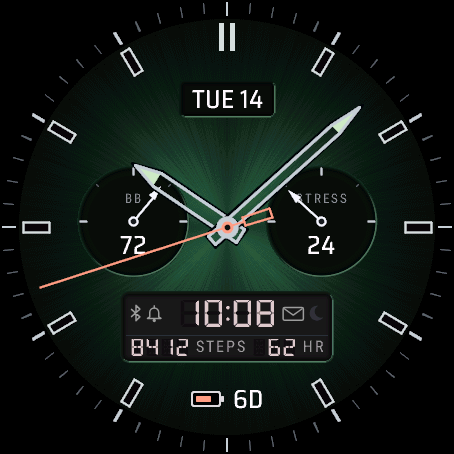
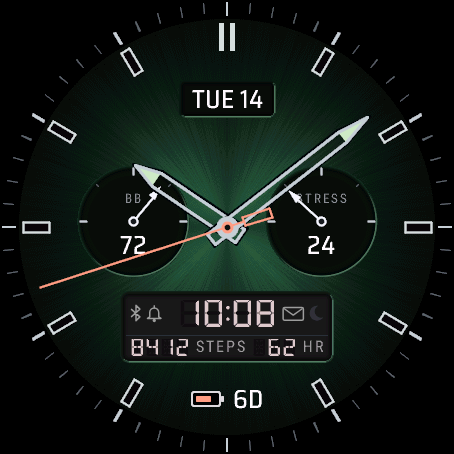
Duo Dial 1.2.0: new hands and shots, Approach S70 and S72, Hand style; second time zone by city; store permission explained

diff --git a/duo-dial/index.html b/duo-dial/index.html
@@ -3,10 +3,10 @@
 <head>
 <meta charset="utf-8">
 <meta name="viewport" content="width=device-width, initial-scale=1">
-<title>Duo Dial, a watch face for Venu 4 and Instinct 3 AMOLED</title>
+<title>Duo Dial, a watch face for Venu 4, Instinct 3 AMOLED and Approach S70 and S72</title>
 <meta name="description" content="Analog hands and an LCD window on one dial, like the analog-digital sports watches of the 80s and 90s.">
 <link rel="canonical" href="https://watchfaces.thesako.com/duo-dial/">
-<meta property="og:title" content="Duo Dial, a watch face for Venu 4 and Instinct 3 AMOLED">
+<meta property="og:title" content="Duo Dial, a watch face for Venu 4, Instinct 3 AMOLED and Approach S70 and S72">
 <meta property="og:description" content="Analog hands and an LCD window on one dial, like the analog-digital sports watches of the 80s and 90s.">
 <meta property="og:image" content="https://watchfaces.thesako.com/assets/faces/duodial/hero-1440x720.jpg">
 <meta property="og:url" content="https://watchfaces.thesako.com/duo-dial/">
@@ -47,13 +47,13 @@
     </div>
   <section class="detail">
     <h2>On the face</h2>
-    <ul><li>Hour, minute and seconds hands over a textured dial</li><li>Date window: the date, the ISO week or a second time zone</li><li>Two sub-dials with a needle and value: Body Battery™ and stress to start with</li><li>LCD window with the digital time, two values and status icons for Bluetooth, alarms, notifications and do not disturb</li><li>Battery with days left or percent</li></ul>
+    <ul><li>Hour, minute and seconds hands over a textured dial, open or filled. The minute hand moves every second, as on a real watch</li><li>Date window: the date, the ISO week or a second time zone</li><li>Two sub-dials with a needle and value: Body Battery™ and stress to start with</li><li>LCD window with the digital time, two values and status icons for Bluetooth, alarms, notifications and do not disturb</li><li>Battery with days left or percent</li></ul>
     <h2>What you can change</h2>
-    <p>The sub-dials take readings that fill a scale: steps, floors, intensity minutes, Body Battery™, stress, Pulse Ox, sleep score, battery, battery days, rain chance or solar intensity. The LCD window&#x27;s two values, the date window and the battery display are set from your phone too.</p>
-    <p>Also in the phone settings: 12 or 24 hour time or the watch&#x27;s setting, a leading zero for 12 h, seconds on or off, the date style (TUE 14 OCT, 14 OCT TUE, TUE 10/14 or 2026-10-14), the always-on style (Rich, Minimal or Time only), units, the first day of the week and a second time zone. On a Venu 4, touch and hold a field to open the matching screen on the watch.</p>
+    <p>The sub-dials take readings that fill a scale: steps, floors, intensity minutes, Body Battery™, stress, Pulse Ox, sleep score, battery, battery days, rain chance or solar intensity. The LCD window&#x27;s two values, the date window and the battery display are set from your phone too, and so is the hand style, open or filled.</p>
+    <p>Also in the phone settings: 12 or 24 hour time or the watch&#x27;s setting, a leading zero for 12 h, seconds on or off, the date style (TUE 14 OCT, 14 OCT TUE, TUE 10/14 or 2026-10-14), the always-on style (Rich, Minimal or Time only), units, the first day of the week and a second time zone: pick a city and it follows daylight saving, or set your own offset. On a touch watch, touch and hold a field to open the matching screen on the watch.</p>
     <p>Settings are changed in the Connect IQ Store app or the Garmin Connect app on your phone. <a href="/help/">How settings, always-on mode and missing values work</a>.</p>
     <h2>Watches</h2>
-    <p>Venu® 4 45 mm, Venu® 4 41 mm, Instinct® 3 AMOLED 50 mm, Instinct® 3 AMOLED 45 mm. The D2™ Air X15 runs it too.</p>
+    <p>Venu® 4 45 mm, Venu® 4 41 mm, Instinct® 3 AMOLED 50 mm, Instinct® 3 AMOLED 45 mm, Approach® S70 47 mm, Approach® S70 42 mm, Approach® S72 47 mm, Approach® S72 43 mm. The D2™ Air X15 runs it too.</p>
   </section>
   </div>
  </div>
@@ -64,6 +64,10 @@
     <figure><img class="dial" src="/assets/faces/duodial/venu441mm.png" width="390" height="390" style="width:85.9%" alt="Duo Dial on the Venu 4 41 mm"><figcaption>Venu 4 41 mm</figcaption></figure>
     <figure><img class="dial" src="/assets/faces/duodial/instinct3amoled50mm.png" width="416" height="416" style="width:91.6%" alt="Duo Dial on the Instinct 3 AMOLED 50 mm"><figcaption>Instinct 3 AMOLED 50 mm</figcaption></figure>
     <figure><img class="dial" src="/assets/faces/duodial/instinct3amoled45mm.png" width="390" height="390" style="width:85.9%" alt="Duo Dial on the Instinct 3 AMOLED 45 mm"><figcaption>Instinct 3 AMOLED 45 mm</figcaption></figure>
+    <figure><img class="dial" src="/assets/faces/duodial/approachs7047mm.png" width="454" height="454" style="width:100.0%" alt="Duo Dial on the Approach S70 47 mm"><figcaption>Approach S70 47 mm</figcaption></figure>
+    <figure><img class="dial" src="/assets/faces/duodial/approachs7042mm.png" width="390" height="390" style="width:85.9%" alt="Duo Dial on the Approach S70 42 mm"><figcaption>Approach S70 42 mm</figcaption></figure>
+    <figure><img class="dial" src="/assets/faces/duodial/approachs7247mm.png" width="454" height="454" style="width:100.0%" alt="Duo Dial on the Approach S72 47 mm"><figcaption>Approach S72 47 mm</figcaption></figure>
+    <figure><img class="dial" src="/assets/faces/duodial/approachs7243mm.png" width="416" height="416" style="width:91.6%" alt="Duo Dial on the Approach S72 43 mm"><figcaption>Approach S72 43 mm</figcaption></figure>
     </div>
   </section>
   <nav class="pager" aria-label="Other faces">
@@ -76,7 +80,7 @@
 </main>
 <footer class="foot">
   <p>Made by thesako. Questions: <a href="mailto:watchfaces@thesako.com">watchfaces@thesako.com</a></p>
-  <p>Not affiliated with or endorsed by Garmin. Garmin, Connect IQ, Venu, Instinct, Body Battery and D2 are trademarks of Garmin Ltd. or its subsidiaries. Set in Saira, under the <a href="/assets/fonts/OFL.txt">SIL Open Font License</a>.</p>
+  <p>Not affiliated with or endorsed by Garmin. Garmin, Connect IQ, Venu, Instinct, Approach, Body Battery and D2 are trademarks of Garmin Ltd. or its subsidiaries. Set in Saira, under the <a href="/assets/fonts/OFL.txt">SIL Open Font License</a>.</p>
 </footer>
 </body>
 </html>

diff --git a/help/index.html b/help/index.html
@@ -48,13 +48,18 @@
   <p>When the watch is set to keep the screen on, each face switches to a dimmed, simpler view when you lower your wrist. It updates once a minute and moves a few pixels now and then to protect the AMOLED screen. Seconds only show while the watch is active. Each face has three always-on styles: Rich, Minimal and Time only.</p>
 
   <h2 id="touch">Touch and hold</h2>
-  <p>On a Venu 4, touch and hold a field to open the matching screen on the watch, such as heart rate or Body Battery. The Instinct 3 AMOLED has no touch screen, so this doesn't apply there.</p>
+  <p>On a Venu 4, or an Approach S70 or S72 with Duo Dial, touch and hold a field to open the matching screen on the watch, such as heart rate or Body Battery. The Instinct 3 AMOLED has no touch screen, so this doesn't apply there.</p>
+
+  <h2 id="time-zone">Second time zone</h2>
+  <p>In a face's settings, pick a city and the second time zone follows that city's daylight saving by itself. For anywhere else, choose a custom offset and a label of up to four letters. A custom offset doesn't change with daylight saving.</p>
 
   <h2 id="watches">Supported watches</h2>
   <ul><li>Venu® 4 45 mm</li><li>Venu® 4 41 mm</li><li>Instinct® 3 AMOLED 50 mm</li><li>Instinct® 3 AMOLED 45 mm</li><li>D2™ Air X15, which shares the Venu 4 45 mm profile</li></ul>
+  <p>Duo Dial also runs on the Approach S70 42 mm and 47 mm and the Approach S72 43 mm and 47 mm.</p>
 
   <h2 id="privacy">Privacy</h2>
   <p>The faces collect nothing and send nothing; they only show data the watch already has. This site sets no cookies and runs no analytics.</p>
+  <p>The store lists a "Communication &amp; Data Transmission" permission for the faces. That is the store's name for reading data other apps provide on the watch, such as the values in a field. The faces use no internet connection.</p>
   <p>Health readings on the faces are for general information and not for medical use.</p>
 
   <h2 id="contact">Contact</h2>
@@ -64,7 +69,7 @@
 </main>
 <footer class="foot">
   <p>Made by thesako. Questions: <a href="mailto:watchfaces@thesako.com">watchfaces@thesako.com</a></p>
-  <p>Not affiliated with or endorsed by Garmin. Garmin, Connect IQ, Venu, Instinct, Body Battery and D2 are trademarks of Garmin Ltd. or its subsidiaries. Set in Saira, under the <a href="/assets/fonts/OFL.txt">SIL Open Font License</a>.</p>
+  <p>Not affiliated with or endorsed by Garmin. Garmin, Connect IQ, Venu, Instinct, Approach, Body Battery and D2 are trademarks of Garmin Ltd. or its subsidiaries. Set in Saira, under the <a href="/assets/fonts/OFL.txt">SIL Open Font License</a>.</p>
 </footer>
 </body>
 </html>

diff --git a/range-card/index.html b/range-card/index.html
@@ -46,7 +46,7 @@
     <ul><li>Time with solid hours, outlined minutes and seconds in active mode</li><li>Top band: the date, or military date-time, your next calendar event, weather, training status or ISO week</li><li>Status line (notifications to start with) and a weather line with the high and low</li><li>Step-goal dial with a progress ring</li><li>A 3 + 3 grid: heart rate, battery days, calories, floors, altitude and intensity minutes to start with</li><li>Footer, sunset to start with</li><li>Edge gauges with their names printed along them: Body Battery™ on the left, stress on the right</li></ul>
     <h2>What you can change</h2>
     <p>All 13 slots can be set from your phone, and most can be left empty: activity, health, battery, weather and time data, depending on the slot and your watch.</p>
-    <p>Also in the phone settings: 12 or 24 hour time or the watch&#x27;s setting, a leading zero for 12 h, seconds on or off, the date style (TUE 14 OCT, 14 OCT TUE, TUE 10/14 or 2026-10-14), the always-on style (Rich, Minimal or Time only), units, the first day of the week and a second time zone. On a Venu 4, touch and hold a field to open the matching screen on the watch.</p>
+    <p>Also in the phone settings: 12 or 24 hour time or the watch&#x27;s setting, a leading zero for 12 h, seconds on or off, the date style (TUE 14 OCT, 14 OCT TUE, TUE 10/14 or 2026-10-14), the always-on style (Rich, Minimal or Time only), units, the first day of the week and a second time zone: pick a city and it follows daylight saving, or set your own offset. On a touch watch, touch and hold a field to open the matching screen on the watch.</p>
     <p>Settings are changed in the Connect IQ Store app or the Garmin Connect app on your phone. <a href="/help/">How settings, always-on mode and missing values work</a>.</p>
     <h2>Watches</h2>
     <p>Venu® 4 45 mm, Venu® 4 41 mm, Instinct® 3 AMOLED 50 mm, Instinct® 3 AMOLED 45 mm. The D2™ Air X15 runs it too.</p>
@@ -72,7 +72,7 @@
 </main>
 <footer class="foot">
   <p>Made by thesako. Questions: <a href="mailto:watchfaces@thesako.com">watchfaces@thesako.com</a></p>
-  <p>Not affiliated with or endorsed by Garmin. Garmin, Connect IQ, Venu, Instinct, Body Battery and D2 are trademarks of Garmin Ltd. or its subsidiaries. Set in Saira, under the <a href="/assets/fonts/OFL.txt">SIL Open Font License</a>.</p>
+  <p>Not affiliated with or endorsed by Garmin. Garmin, Connect IQ, Venu, Instinct, Approach, Body Battery and D2 are trademarks of Garmin Ltd. or its subsidiaries. Set in Saira, under the <a href="/assets/fonts/OFL.txt">SIL Open Font License</a>.</p>
 </footer>
 </body>
 </html>

diff --git a/conduit/index.html b/conduit/index.html
@@ -46,7 +46,7 @@
     <ul><li>Heart rate and a 12-bar chart of the last four hours</li><li>Time with outlined hours, solid accent minutes and seconds in active mode</li><li>Date with the temperature or feels-like</li><li>Small ringed dial, battery days left to start with</li><li>Sun line with sunrise and sunset</li><li>Two arc gauges rising from 6 o&#x27;clock: Body Battery™ and steps to start with</li></ul>
     <h2>What you can change</h2>
     <p>The heart-rate chart stays put. The dial, the date line, both sides of the sun line and both arcs can be changed from your phone, and the heart-rate value, date-line value and sun line can be hidden.</p>
-    <p>Also in the phone settings: 12 or 24 hour time or the watch&#x27;s setting, a leading zero for 12 h, seconds on or off, the date style (TUE 14 OCT, 14 OCT TUE, TUE 10/14 or 2026-10-14), the always-on style (Rich, Minimal or Time only), units, the first day of the week and a second time zone. On a Venu 4, touch and hold a field to open the matching screen on the watch.</p>
+    <p>Also in the phone settings: 12 or 24 hour time or the watch&#x27;s setting, a leading zero for 12 h, seconds on or off, the date style (TUE 14 OCT, 14 OCT TUE, TUE 10/14 or 2026-10-14), the always-on style (Rich, Minimal or Time only), units, the first day of the week and a second time zone: pick a city and it follows daylight saving, or set your own offset. On a touch watch, touch and hold a field to open the matching screen on the watch.</p>
     <p>Settings are changed in the Connect IQ Store app or the Garmin Connect app on your phone. <a href="/help/">How settings, always-on mode and missing values work</a>.</p>
     <h2>Watches</h2>
     <p>Venu® 4 45 mm, Venu® 4 41 mm, Instinct® 3 AMOLED 50 mm, Instinct® 3 AMOLED 45 mm. The D2™ Air X15 runs it too.</p>
@@ -72,7 +72,7 @@
 </main>
 <footer class="foot">
   <p>Made by thesako. Questions: <a href="mailto:watchfaces@thesako.com">watchfaces@thesako.com</a></p>
-  <p>Not affiliated with or endorsed by Garmin. Garmin, Connect IQ, Venu, Instinct, Body Battery and D2 are trademarks of Garmin Ltd. or its subsidiaries. Set in Saira, under the <a href="/assets/fonts/OFL.txt">SIL Open Font License</a>.</p>
+  <p>Not affiliated with or endorsed by Garmin. Garmin, Connect IQ, Venu, Instinct, Approach, Body Battery and D2 are trademarks of Garmin Ltd. or its subsidiaries. Set in Saira, under the <a href="/assets/fonts/OFL.txt">SIL Open Font License</a>.</p>
 </footer>
 </body>
 </html>

diff --git a/gauge-glass/index.html b/gauge-glass/index.html
@@ -46,7 +46,7 @@
     <ul><li>Skeleton hands and a seconds hand over a tick ring</li><li>Seven-segment time with seconds and a 14-segment date line</li><li>Four level gauges: steps (% of goal), battery days left, Body Battery™ and stress to start with</li></ul>
     <h2>What you can change</h2>
     <p>Each gauge and the date line can show a different reading, or nothing. The gauges take readings that fill a level: steps, floors, intensity minutes, Body Battery™, stress, Pulse Ox, sleep score, battery, battery days, rain chance or solar intensity. The date line shows the date, ISO week, a second time zone or your next calendar event.</p>
-    <p>Also in the phone settings: 12 or 24 hour time or the watch&#x27;s setting, a leading zero for 12 h, seconds on or off, the date style (TUE 14 OCT, 14 OCT TUE, TUE 10/14 or 2026-10-14), the always-on style (Rich, Minimal or Time only), units, the first day of the week and a second time zone. On a Venu 4, touch and hold a field to open the matching screen on the watch.</p>
+    <p>Also in the phone settings: 12 or 24 hour time or the watch&#x27;s setting, a leading zero for 12 h, seconds on or off, the date style (TUE 14 OCT, 14 OCT TUE, TUE 10/14 or 2026-10-14), the always-on style (Rich, Minimal or Time only), units, the first day of the week and a second time zone: pick a city and it follows daylight saving, or set your own offset. On a touch watch, touch and hold a field to open the matching screen on the watch.</p>
     <p>Settings are changed in the Connect IQ Store app or the Garmin Connect app on your phone. <a href="/help/">How settings, always-on mode and missing values work</a>.</p>
     <h2>Watches</h2>
     <p>Venu® 4 45 mm, Venu® 4 41 mm, Instinct® 3 AMOLED 50 mm, Instinct® 3 AMOLED 45 mm. The D2™ Air X15 runs it too.</p>
@@ -72,7 +72,7 @@
 </main>
 <footer class="foot">
   <p>Made by thesako. Questions: <a href="mailto:watchfaces@thesako.com">watchfaces@thesako.com</a></p>
-  <p>Not affiliated with or endorsed by Garmin. Garmin, Connect IQ, Venu, Instinct, Body Battery and D2 are trademarks of Garmin Ltd. or its subsidiaries. Set in Saira, under the <a href="/assets/fonts/OFL.txt">SIL Open Font License</a>.</p>
+  <p>Not affiliated with or endorsed by Garmin. Garmin, Connect IQ, Venu, Instinct, Approach, Body Battery and D2 are trademarks of Garmin Ltd. or its subsidiaries. Set in Saira, under the <a href="/assets/fonts/OFL.txt">SIL Open Font License</a>.</p>
 </footer>
 </body>
 </html>

diff --git a/signal-box/index.html b/signal-box/index.html
@@ -46,7 +46,7 @@
     <ul><li>Heart-rate dial, its ring showing how close you are to your maximum heart rate</li><li>Date block with the current temperature and conditions</li><li>Large time with outlined minutes and seconds in active mode</li><li>Two segment bars: steps and battery days left to start with</li><li>Two block gauges on the rim: Body Battery™ and stress to start with</li><li>Footer line, sunset to start with</li></ul>
     <h2>What you can change</h2>
     <p>Seven slots can be changed from your phone: the dial, the weather line, both bars, both rim gauges and the footer. Most can also be switched off.</p>
-    <p>Also in the phone settings: 12 or 24 hour time or the watch&#x27;s setting, a leading zero for 12 h, seconds on or off, the date style (TUE 14 OCT, 14 OCT TUE, TUE 10/14 or 2026-10-14), the always-on style (Rich, Minimal or Time only), units, the first day of the week and a second time zone. On a Venu 4, touch and hold a field to open the matching screen on the watch.</p>
+    <p>Also in the phone settings: 12 or 24 hour time or the watch&#x27;s setting, a leading zero for 12 h, seconds on or off, the date style (TUE 14 OCT, 14 OCT TUE, TUE 10/14 or 2026-10-14), the always-on style (Rich, Minimal or Time only), units, the first day of the week and a second time zone: pick a city and it follows daylight saving, or set your own offset. On a touch watch, touch and hold a field to open the matching screen on the watch.</p>
     <p>Settings are changed in the Connect IQ Store app or the Garmin Connect app on your phone. <a href="/help/">How settings, always-on mode and missing values work</a>.</p>
     <h2>Watches</h2>
     <p>Venu® 4 45 mm, Venu® 4 41 mm, Instinct® 3 AMOLED 50 mm, Instinct® 3 AMOLED 45 mm. The D2™ Air X15 runs it too.</p>
@@ -72,7 +72,7 @@
 </main>
 <footer class="foot">
   <p>Made by thesako. Questions: <a href="mailto:watchfaces@thesako.com">watchfaces@thesako.com</a></p>
-  <p>Not affiliated with or endorsed by Garmin. Garmin, Connect IQ, Venu, Instinct, Body Battery and D2 are trademarks of Garmin Ltd. or its subsidiaries. Set in Saira, under the <a href="/assets/fonts/OFL.txt">SIL Open Font License</a>.</p>
+  <p>Not affiliated with or endorsed by Garmin. Garmin, Connect IQ, Venu, Instinct, Approach, Body Battery and D2 are trademarks of Garmin Ltd. or its subsidiaries. Set in Saira, under the <a href="/assets/fonts/OFL.txt">SIL Open Font License</a>.</p>
 </footer>
 </body>
 </html>

diff --git a/track-hybrid/index.html b/track-hybrid/index.html
@@ -49,7 +49,7 @@
     <ul><li>Analog hands over a seven-segment time, with seconds in active mode</li><li>Top field: the date, or ISO week, a second time zone, your next event, sunrise, sunset, temperature or weather</li><li>Two band gauges inside the minute track, names curved along them: Body Battery™ and stress to start with</li><li>Four data fields: heart rate, battery days, temperature and notifications to start with</li><li>Footer, calories to start with</li></ul>
     <h2>What you can change</h2>
     <p>Every field and gauge can be changed from your phone, and most can be switched off for a cleaner dial.</p>
-    <p>Also in the phone settings: 12 or 24 hour time or the watch&#x27;s setting, a leading zero for 12 h, seconds on or off, the date style (TUE 14 OCT, 14 OCT TUE, TUE 10/14 or 2026-10-14), the always-on style (Rich, Minimal or Time only), units, the first day of the week and a second time zone. On a Venu 4, touch and hold a field to open the matching screen on the watch.</p>
+    <p>Also in the phone settings: 12 or 24 hour time or the watch&#x27;s setting, a leading zero for 12 h, seconds on or off, the date style (TUE 14 OCT, 14 OCT TUE, TUE 10/14 or 2026-10-14), the always-on style (Rich, Minimal or Time only), units, the first day of the week and a second time zone: pick a city and it follows daylight saving, or set your own offset. On a touch watch, touch and hold a field to open the matching screen on the watch.</p>
     <p>Settings are changed in the Connect IQ Store app or the Garmin Connect app on your phone. <a href="/help/">How settings, always-on mode and missing values work</a>.</p>
     <h2>Watches</h2>
     <p>Venu® 4 45 mm, Venu® 4 41 mm, Instinct® 3 AMOLED 50 mm, Instinct® 3 AMOLED 45 mm. The D2™ Air X15 runs it too.</p>
@@ -75,7 +75,7 @@
 </main>
 <footer class="foot">
   <p>Made by thesako. Questions: <a href="mailto:watchfaces@thesako.com">watchfaces@thesako.com</a></p>
-  <p>Not affiliated with or endorsed by Garmin. Garmin, Connect IQ, Venu, Instinct, Body Battery and D2 are trademarks of Garmin Ltd. or its subsidiaries. Set in Saira, under the <a href="/assets/fonts/OFL.txt">SIL Open Font License</a>.</p>
+  <p>Not affiliated with or endorsed by Garmin. Garmin, Connect IQ, Venu, Instinct, Approach, Body Battery and D2 are trademarks of Garmin Ltd. or its subsidiaries. Set in Saira, under the <a href="/assets/fonts/OFL.txt">SIL Open Font License</a>.</p>
 </footer>
 </body>
 </html>

diff --git a/week-grid/index.html b/week-grid/index.html
@@ -46,7 +46,7 @@
     <ul><li>Week strip of the last seven days</li><li>Date with the current temperature and conditions</li><li>Large time with outlined minutes and seconds in active mode</li><li>A ruled 3 + 3 grid: heart rate, steps, notifications, calories, distance and floors to start with</li><li>Battery with days left, percent or the icon only</li><li>Two curved side gauges: Body Battery™ and stress to start with</li></ul>
     <h2>What you can change</h2>
     <p>Both gauges, the week strip, the weather line, all six cells and the battery display can be changed from your phone. Most can be switched off.</p>
-    <p>Also in the phone settings: 12 or 24 hour time or the watch&#x27;s setting, a leading zero for 12 h, seconds on or off, the date style (TUE 14 OCT, 14 OCT TUE, TUE 10/14 or 2026-10-14), the always-on style (Rich, Minimal or Time only), units, the first day of the week and a second time zone. On a Venu 4, touch and hold a field to open the matching screen on the watch.</p>
+    <p>Also in the phone settings: 12 or 24 hour time or the watch&#x27;s setting, a leading zero for 12 h, seconds on or off, the date style (TUE 14 OCT, 14 OCT TUE, TUE 10/14 or 2026-10-14), the always-on style (Rich, Minimal or Time only), units, the first day of the week and a second time zone: pick a city and it follows daylight saving, or set your own offset. On a touch watch, touch and hold a field to open the matching screen on the watch.</p>
     <p>Settings are changed in the Connect IQ Store app or the Garmin Connect app on your phone. <a href="/help/">How settings, always-on mode and missing values work</a>.</p>
     <h2>Watches</h2>
     <p>Venu® 4 45 mm, Venu® 4 41 mm, Instinct® 3 AMOLED 50 mm, Instinct® 3 AMOLED 45 mm. The D2™ Air X15 runs it too.</p>
@@ -72,7 +72,7 @@
 </main>
 <footer class="foot">
   <p>Made by thesako. Questions: <a href="mailto:watchfaces@thesako.com">watchfaces@thesako.com</a></p>
-  <p>Not affiliated with or endorsed by Garmin. Garmin, Connect IQ, Venu, Instinct, Body Battery and D2 are trademarks of Garmin Ltd. or its subsidiaries. Set in Saira, under the <a href="/assets/fonts/OFL.txt">SIL Open Font License</a>.</p>
+  <p>Not affiliated with or endorsed by Garmin. Garmin, Connect IQ, Venu, Instinct, Approach, Body Battery and D2 are trademarks of Garmin Ltd. or its subsidiaries. Set in Saira, under the <a href="/assets/fonts/OFL.txt">SIL Open Font License</a>.</p>
 </footer>
 </body>
 </html>

diff --git a/gold-rule/index.html b/gold-rule/index.html
@@ -46,7 +46,7 @@
     <ul><li>Full date, such as TUE 14 OCTOBER</li><li>Time with solid hours, gold outlined minutes and seconds in active mode</li><li>Top row: heart rate, steps and battery days left to start with</li><li>Bottom row: distance, temperature and intensity minutes to start with</li><li>Footer pair: notifications and calories to start with</li><li>Two labelled arcs: Body Battery™ and stress to start with</li></ul>
     <h2>What you can change</h2>
     <p>All ten data slots can be changed from your phone, and most can be left empty.</p>
-    <p>Also in the phone settings: 12 or 24 hour time or the watch&#x27;s setting, a leading zero for 12 h, seconds on or off, the date style (TUE 14 OCT, 14 OCT TUE, TUE 10/14 or 2026-10-14), the always-on style (Rich, Minimal or Time only), units, the first day of the week and a second time zone. On a Venu 4, touch and hold a field to open the matching screen on the watch.</p>
+    <p>Also in the phone settings: 12 or 24 hour time or the watch&#x27;s setting, a leading zero for 12 h, seconds on or off, the date style (TUE 14 OCT, 14 OCT TUE, TUE 10/14 or 2026-10-14), the always-on style (Rich, Minimal or Time only), units, the first day of the week and a second time zone: pick a city and it follows daylight saving, or set your own offset. On a touch watch, touch and hold a field to open the matching screen on the watch.</p>
     <p>Settings are changed in the Connect IQ Store app or the Garmin Connect app on your phone. <a href="/help/">How settings, always-on mode and missing values work</a>.</p>
     <h2>Watches</h2>
     <p>Venu® 4 45 mm, Venu® 4 41 mm, Instinct® 3 AMOLED 50 mm, Instinct® 3 AMOLED 45 mm. The D2™ Air X15 runs it too.</p>
@@ -72,7 +72,7 @@
 </main>
 <footer class="foot">
   <p>Made by thesako. Questions: <a href="mailto:watchfaces@thesako.com">watchfaces@thesako.com</a></p>
-  <p>Not affiliated with or endorsed by Garmin. Garmin, Connect IQ, Venu, Instinct, Body Battery and D2 are trademarks of Garmin Ltd. or its subsidiaries. Set in Saira, under the <a href="/assets/fonts/OFL.txt">SIL Open Font License</a>.</p>
+  <p>Not affiliated with or endorsed by Garmin. Garmin, Connect IQ, Venu, Instinct, Approach, Body Battery and D2 are trademarks of Garmin Ltd. or its subsidiaries. Set in Saira, under the <a href="/assets/fonts/OFL.txt">SIL Open Font License</a>.</p>
 </footer>
 </body>
 </html>

diff --git a/field-kit/index.html b/field-kit/index.html
@@ -46,7 +46,7 @@
     <ul><li>Date tag with the day, weekday and month</li><li>Ringed dial, Body Battery™ to start with</li><li>Sun line with sunrise and sunset</li><li>Three chamfered tiles: heart rate, steps and temperature to start with</li><li>Battery gauge showing days left, percent or just the icon</li></ul>
     <h2>What you can change</h2>
     <p>The dial, both sides of the sun line, each tile and the battery display can be changed from your phone, and most can be turned off.</p>
-    <p>Also in the phone settings: 12 or 24 hour time or the watch&#x27;s setting, a leading zero for 12 h, seconds on or off, the date style (TUE 14 OCT, 14 OCT TUE, TUE 10/14 or 2026-10-14), the always-on style (Rich, Minimal or Time only), units, the first day of the week and a second time zone. On a Venu 4, touch and hold a field to open the matching screen on the watch.</p>
+    <p>Also in the phone settings: 12 or 24 hour time or the watch&#x27;s setting, a leading zero for 12 h, seconds on or off, the date style (TUE 14 OCT, 14 OCT TUE, TUE 10/14 or 2026-10-14), the always-on style (Rich, Minimal or Time only), units, the first day of the week and a second time zone: pick a city and it follows daylight saving, or set your own offset. On a touch watch, touch and hold a field to open the matching screen on the watch.</p>
     <p>Settings are changed in the Connect IQ Store app or the Garmin Connect app on your phone. <a href="/help/">How settings, always-on mode and missing values work</a>.</p>
     <h2>Watches</h2>
     <p>Venu® 4 45 mm, Venu® 4 41 mm, Instinct® 3 AMOLED 50 mm, Instinct® 3 AMOLED 45 mm. The D2™ Air X15 runs it too.</p>
@@ -72,7 +72,7 @@
 </main>
 <footer class="foot">
   <p>Made by thesako. Questions: <a href="mailto:watchfaces@thesako.com">watchfaces@thesako.com</a></p>
-  <p>Not affiliated with or endorsed by Garmin. Garmin, Connect IQ, Venu, Instinct, Body Battery and D2 are trademarks of Garmin Ltd. or its subsidiaries. Set in Saira, under the <a href="/assets/fonts/OFL.txt">SIL Open Font License</a>.</p>
+  <p>Not affiliated with or endorsed by Garmin. Garmin, Connect IQ, Venu, Instinct, Approach, Body Battery and D2 are trademarks of Garmin Ltd. or its subsidiaries. Set in Saira, under the <a href="/assets/fonts/OFL.txt">SIL Open Font License</a>.</p>
 </footer>
 </body>
 </html>

diff --git a/index.html b/index.html
@@ -93,7 +93,7 @@
 </main>
 <footer class="foot">
   <p>Made by thesako. Questions: <a href="mailto:watchfaces@thesako.com">watchfaces@thesako.com</a></p>
-  <p>Not affiliated with or endorsed by Garmin. Garmin, Connect IQ, Venu, Instinct, Body Battery and D2 are trademarks of Garmin Ltd. or its subsidiaries. Set in Saira, under the <a href="/assets/fonts/OFL.txt">SIL Open Font License</a>.</p>
+  <p>Not affiliated with or endorsed by Garmin. Garmin, Connect IQ, Venu, Instinct, Approach, Body Battery and D2 are trademarks of Garmin Ltd. or its subsidiaries. Set in Saira, under the <a href="/assets/fonts/OFL.txt">SIL Open Font License</a>.</p>
 </footer>
 </body>
 </html>

diff --git a/build.py b/build.py
@@ -22,6 +22,9 @@ STORE = {   # Connect IQ Store listings, all approved 1.0.0 (2026-10-23)
 WATCHES = ["Venu® 4 45 mm", "Venu® 4 41 mm", "Instinct® 3 AMOLED 50 mm", "Instinct® 3 AMOLED 45 mm"]
 SIZES = [("venu445mm", "Venu 4 45 mm", 454), ("venu441mm", "Venu 4 41 mm", 390),
          ("instinct3amoled50mm", "Instinct 3 AMOLED 50 mm", 416), ("instinct3amoled45mm", "Instinct 3 AMOLED 45 mm", 390)]
+APPROACH_WATCHES = ["Approach® S70 47 mm", "Approach® S70 42 mm", "Approach® S72 47 mm", "Approach® S72 43 mm"]
+APPROACH_SIZES = [("approachs7047mm", "Approach S70 47 mm", 454), ("approachs7042mm", "Approach S70 42 mm", 390),
+                  ("approachs7247mm", "Approach S72 47 mm", 454), ("approachs7243mm", "Approach S72 43 mm", 416)]
 GENERIC = ["Original", "Cyan", "Lime", "Mono"]
 
 FACES = [
@@ -130,21 +133,22 @@ FACES = [
          tagline="Analog hands and an LCD window on one dial, like the analog-digital sports watches of the 80s and 90s.",
          intro=["Duo Dial is an analog-digital face. The hands run over a textured dial, with a date window, two sub-dials "
                 "and an LCD window with segment digits set into it."],
-         shows=["Hour, minute and seconds hands over a textured dial",
+         approach=True,
+         shows=["Hour, minute and seconds hands over a textured dial, open or filled. The minute hand moves every second, as on a real watch",
                 "Date window: the date, the ISO week or a second time zone",
                 "Two sub-dials with a needle and value: Body Battery™ and stress to start with",
                 "LCD window with the digital time, two values and status icons for Bluetooth, alarms, notifications and do not disturb",
                 "Battery with days left or percent"],
          change="The sub-dials take readings that fill a scale: steps, floors, intensity minutes, Body Battery™, stress, Pulse Ox, "
                 "sleep score, battery, battery days, rain chance or solar intensity. The LCD window's two values, the date window "
-                "and the battery display are set from your phone too.",
+                "and the battery display are set from your phone too, and so is the hand style, open or filled.",
          themes=["Midnight navy", "Petrol teal", "Racing green", "Anthracite slate", "Oxblood", "Chocolate", "Deep violet", "Black"]),
 ]
 
 COMMON = ("Also in the phone settings: 12 or 24 hour time or the watch's setting, a leading zero for 12 h, seconds on or off, "
           "the date style (TUE 14 OCT, 14 OCT TUE, TUE 10/14 or 2026-10-14), the always-on style (Rich, Minimal or Time only), "
-          "units, the first day of the week and a second time zone. On a Venu 4, touch and hold a field to open the matching "
-          "screen on the watch.")
+          "units, the first day of the week and a second time zone: pick a city and it follows daylight saving, or set your own offset. "
+          "On a touch watch, touch and hold a field to open the matching screen on the watch.")
 
 
 def e(s):
@@ -180,7 +184,7 @@ def page(title, desc, body, path, image="/assets/faces/duodial/hero-1440x720.jpg
 </main>
 <footer class="foot">
   <p>Made by thesako. Questions: <a href="mailto:{EMAIL}">{EMAIL}</a></p>
-  <p>Not affiliated with or endorsed by Garmin. Garmin, Connect IQ, Venu, Instinct, Body Battery and D2 are trademarks of Garmin Ltd. or its subsidiaries. Set in Saira, under the <a href="/assets/fonts/OFL.txt">SIL Open Font License</a>.</p>
+  <p>Not affiliated with or endorsed by Garmin. Garmin, Connect IQ, Venu, Instinct, Approach, Body Battery and D2 are trademarks of Garmin Ltd. or its subsidiaries. Set in Saira, under the <a href="/assets/fonts/OFL.txt">SIL Open Font License</a>.</p>
 </footer>
 </body>
 </html>
@@ -224,7 +228,7 @@ def face(f):
         f'width="64" height="64" alt="">{" ".join(f"<span class=nw>{e(w)}</span>" if "-" in w else e(w) for w in f["themes"][t].split())}</button>' for t in themes)
     sizes = "\n".join(
         f'    <figure><img class="dial" src="{img(f, p + ".png")}" width="{px}" height="{px}" style="width:{px * 100 / 454:.1f}%" '
-        f'alt="{e(f["name"])} on the {e(label)}"><figcaption>{e(label)}</figcaption></figure>' for p, label, px in SIZES)
+        f'alt="{e(f["name"])} on the {e(label)}"><figcaption>{e(label)}</figcaption></figure>' for p, label, px in SIZES + (APPROACH_SIZES if f.get("approach") else []))
     i = FACES.index(f)
     prev, nxt = FACES[i - 1], FACES[(i + 1) % len(FACES)]
     body = f"""<article class="face" style="--accent:{f['accent']}">
@@ -252,7 +256,7 @@ def face(f):
     <p>{e(COMMON)}</p>
     <p>Settings are changed in the Connect IQ Store app or the Garmin Connect app on your phone. <a href="/help/">How settings, always-on mode and missing values work</a>.</p>
     <h2>Watches</h2>
-    <p>{e(', '.join(WATCHES))}. The D2™ Air X15 runs it too.</p>
+    <p>{e(', '.join(WATCHES + (APPROACH_WATCHES if f.get("approach") else [])))}. The D2™ Air X15 runs it too.</p>
   </section>
   </div>
  </div>
@@ -269,7 +273,7 @@ def face(f):
   </nav>
 </article>
 <script src="/assets/face.js"></script>"""
-    return page(f"{f['name']}, a watch face for Venu 4 and Instinct 3 AMOLED", f["tagline"], body, f"/{f['slug']}/",
+    return page(f"{f['name']}, a watch face for Venu 4{', Instinct 3 AMOLED and Approach S70 and S72' if f.get('approach') else ' and Instinct 3 AMOLED'}", f["tagline"], body, f"/{f['slug']}/",
                 img(f, "hero-1440x720.jpg"))
 
 
@@ -302,13 +306,18 @@ def help_page():
   <p>When the watch is set to keep the screen on, each face switches to a dimmed, simpler view when you lower your wrist. It updates once a minute and moves a few pixels now and then to protect the AMOLED screen. Seconds only show while the watch is active. Each face has three always-on styles: Rich, Minimal and Time only.</p>
 
   <h2 id="touch">Touch and hold</h2>
-  <p>On a Venu 4, touch and hold a field to open the matching screen on the watch, such as heart rate or Body Battery. The Instinct 3 AMOLED has no touch screen, so this doesn't apply there.</p>
+  <p>On a Venu 4, or an Approach S70 or S72 with Duo Dial, touch and hold a field to open the matching screen on the watch, such as heart rate or Body Battery. The Instinct 3 AMOLED has no touch screen, so this doesn't apply there.</p>
+
+  <h2 id="time-zone">Second time zone</h2>
+  <p>In a face's settings, pick a city and the second time zone follows that city's daylight saving by itself. For anywhere else, choose a custom offset and a label of up to four letters. A custom offset doesn't change with daylight saving.</p>
 
   <h2 id="watches">Supported watches</h2>
   <ul>{watches}<li>D2™ Air X15, which shares the Venu 4 45 mm profile</li></ul>
+  <p>Duo Dial also runs on the Approach S70 42 mm and 47 mm and the Approach S72 43 mm and 47 mm.</p>
 
   <h2 id="privacy">Privacy</h2>
   <p>The faces collect nothing and send nothing; they only show data the watch already has. This site sets no cookies and runs no analytics.</p>
+  <p>The store lists a "Communication &amp; Data Transmission" permission for the faces. That is the store's name for reading data other apps provide on the watch, such as the values in a field. The faces use no internet connection.</p>
   <p>Health readings on the faces are for general information and not for medical use.</p>
 
   <h2 id="contact">Contact</h2>
